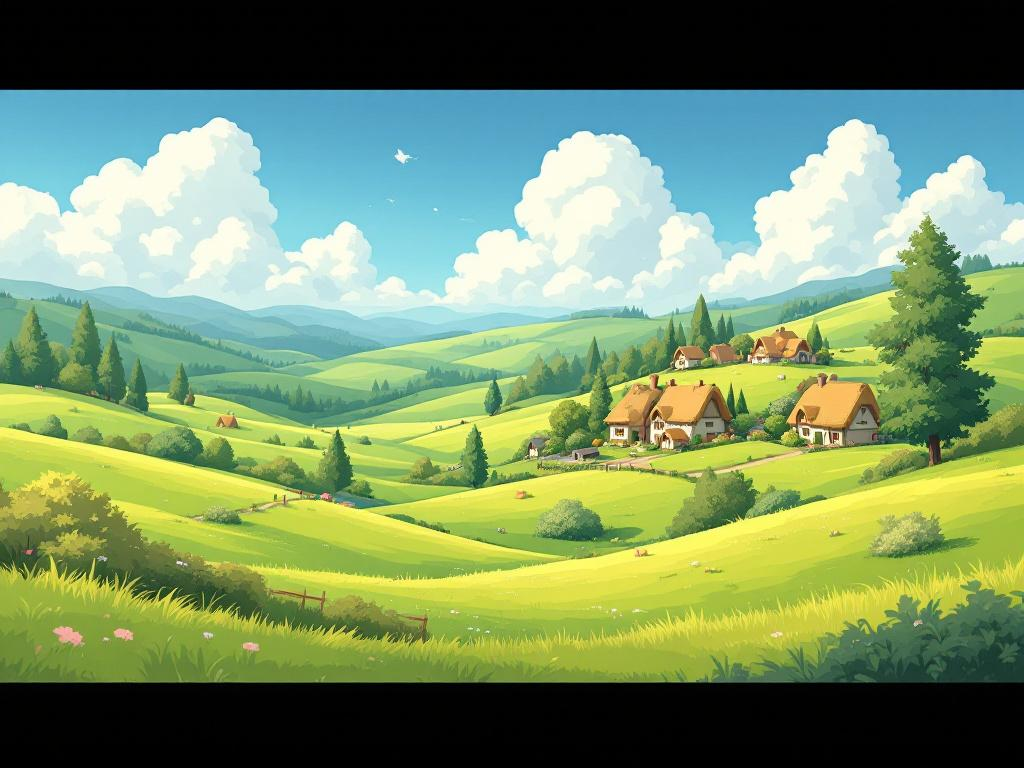
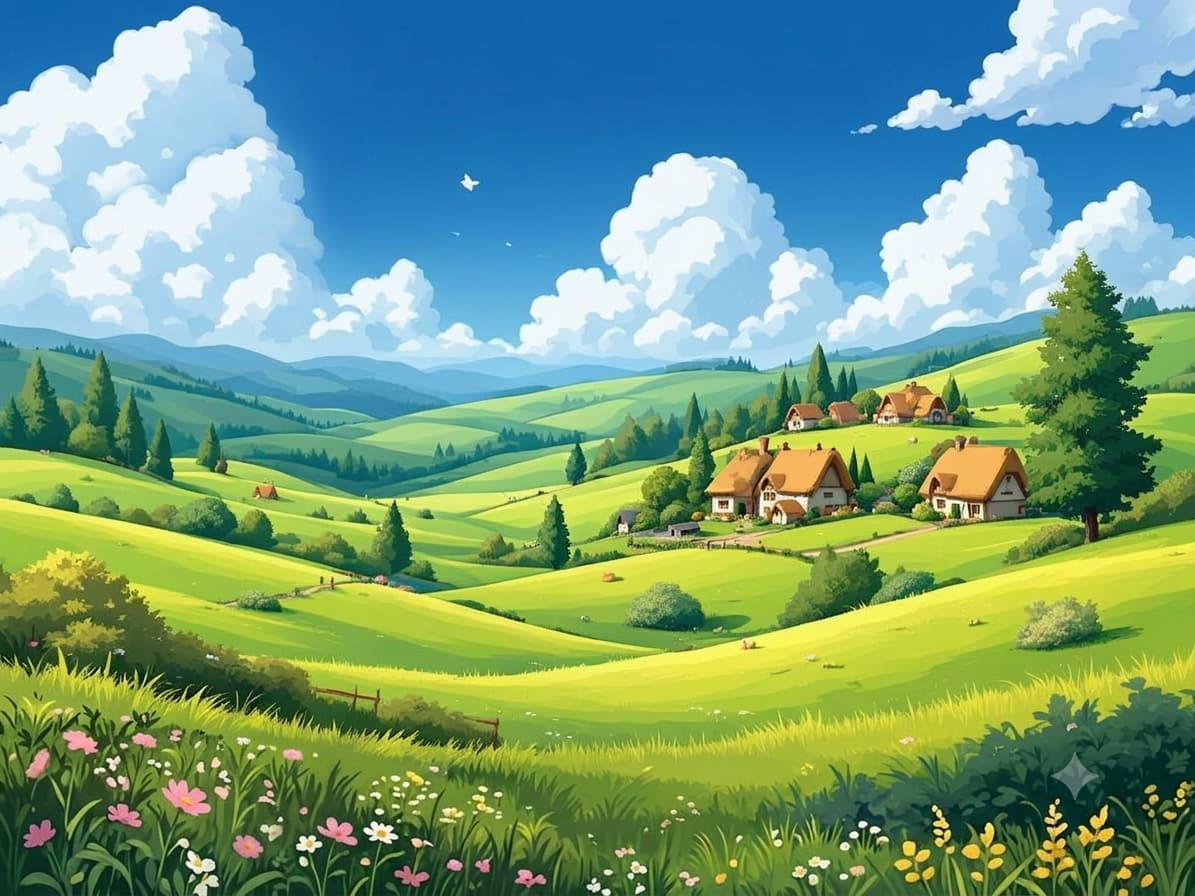
refactor: improve list accessibility, update aria-labels, and fix search layout

diff --git a/scripts/template.js b/scripts/template.js
@@ -1,19 +1,22 @@
 function miniCardType(pokemonCard, pokemonTypeColor) {
-  return `<button class="card mb-3 poke-mini-card" style=" background-color: ${pokemonTypeColor}"  
-               
-              data-id="${pokemonCard.id}" aria-label="button ${pokemonCard.name}" alt="pokemon ${pokemonCard.name}" tabindex="0">        
-              <div class="card-header bg-transparent dpf-sb-center w-100">
-                  <h5 class="fw-bold m-0 capitalize">${pokemonCard.name}</h5>
-                  <p class="border rounded-pill px-2 py-1 fw-bold m-0">#${pokemonCard.id}</p>
-              </div>
-              <div class="card-body text-success dpf-flex-column-center w-100">                   
-                  <img src="${pokemonCard.sprites}" alt="${pokemonCard.name}" class="mini-card-img">                   
-                  <div class="card-body dpf-sb-center gap-2">
-                      <img src="./assets/icons/pokemon-type-icons-main/${pokemonCard.types[0].type.name}.svg" alt="${pokemonCard.types[0].type.name}" class="type-logo border rounded-pill">
-                      ${filterTypes(pokemonCard)}   
-                  </div>
-              </div>
-            </button>`;
+  return `
+          <li>
+            <button class="card mb-3 poke-mini-card" style="background-color: ${pokemonTypeColor}"       
+                    data-id="${pokemonCard.id}" aria-label="${pokemonCard.name}, number ${pokemonCard.id}">        
+                <div class="card-header bg-transparent dpf-sb-center w-100">
+                    <h5 class="fw-bold m-0 capitalize">${pokemonCard.name}</h5>
+                    <p class="border rounded-pill px-2 py-1 fw-bold m-0">#${pokemonCard.id}</p>
+                </div>
+                <div class="card-body text-success dpf-flex-column-center w-100">                   
+                    <img src="${pokemonCard.sprites}" alt="${pokemonCard.name}" class="mini-card-img">                   
+                    <div class="card-body dpf-sb-center gap-2">
+                        <img src="./assets/icons/pokemon-type-icons-main/${pokemonCard.types[0].type.name}.svg" alt="${pokemonCard.types[0].type.name}" class="type-logo border rounded-pill">
+                        ${filterTypes(pokemonCard)}   
+                    </div>
+                </div>
+            </button>
+          </li>
+        `;
 }
 
 function templateModalCard(

diff --git a/index.html b/index.html
@@ -42,10 +42,10 @@
       </div>
       <nav class="navbar bg-body-tertiary w-100 h-auto">
         <div class="container">
-          <a class="navbar-brand dpf-fs-center" href="#">
+          <div class="navbar-brand dpf-fs-center">
             <img src="./assets/img/header-logo.jfif" alt="" class="nav-logo" />
             <h3 class="m-0">Pokedex</h3>
-          </a>
+          </div>
           <form class="d-flex flex-column" role="search">
             <div class="d-flex">
               <input
@@ -73,10 +73,11 @@
         </div>
       </nav>
       <h1 class="p-1">Pokedex</h1>
-      <main
-        class="container d-flex flex-wrap gap-3 p-3 overflow-y-auto"
-        id="mini_card"
-      ></main>
+      <main class="container dpf-center flex-wrap  overflow-y-auto">
+        <ul class="list-unstyled dpf-center flex-wrap gap-3 p-3 w-100" id="mini_card" aria-label="Pokemon-list">
+
+        </ul>
+      </main>
       <dialog id="exampleModal" class="dialogCard">
         <div id="modal_card" class=""></div>
       </dialog>
@@ -85,16 +86,14 @@
           <button
             class="btn btn-success"
             onclick="changePokemonLimit('more')"
-            aria-label="more button"
-            tabindex="0"
+            aria-label="Load 10 more Pokemon"
           >
             +10
           </button>
           <button
             class="btn btn-success"
             onclick="changePokemonLimit('base')"
-            aria-label="reset button"
-            tabindex="0"
+            aria-label="Reset to base Pokemon stack"
           >
             Base Stack
           </button>
@@ -102,8 +101,7 @@
             class="btn btn-success d-none"
             onclick="changePokemonLimit('fewer')"
             id="fewer_button"
-            aria-label="fewer button"
-            tabindex="0"
+            aria-label="Show 10 fewer Pokemon"
           >
             -10
           </button>

diff --git a/script.js b/script.js
@@ -182,7 +182,7 @@ function updateFewerButton() {
 function resetSearch(miniCards, errorMessage) {
   errorMessage.style.display = 'none';
   for (let i = 0; i < miniCards.length; i++) {
-    miniCards[i].style.display = 'block';
+    miniCards[i].parentElement.style.display = 'block';
   }
 }
 
@@ -192,7 +192,7 @@ function applySearchFilter(miniCards, searchTerm) {
     let card = miniCards[i];
     let name = card.querySelector('h5').textContent.toLowerCase();
     let matches = name.includes(searchTerm.toLowerCase());
-    card.style.display = matches ? 'block' : 'none';
+    card.parentElement.style.display = matches ? '' : 'none';
     if (matches) count++;
   }
   return count;
@@ -212,10 +212,13 @@ function filterMiniCards() {
   let searchTerm = document.getElementById('search_Input').value.trim();
   let errorMessage = document.getElementById('error_message');
   let miniCards = document.querySelectorAll('.poke-mini-card');
+  let footer = document.querySelector('footer');
   if (searchTerm.length <= 2) {
     resetSearch(miniCards, errorMessage);
+    footer.classList.remove('d-none');
     return;
   }
   let targetNumber = applySearchFilter(miniCards, searchTerm);
   handleSearchError(errorMessage, targetNumber);
+  footer.classList.add('d-none');
 }

diff --git a/scripts/assets.js b/scripts/assets.js
@@ -3,6 +3,7 @@ const colorBackgroundImage = {
   normal: {
     color: "#A8A878",
     backgroundImage: "background-img-normal.png",
+    textColor: "#000000",
   },
   fire: {
     color: "#F08030",
@@ -73,3 +74,5 @@ const colorBackgroundImage = {
     backgroundImage: "background-img-fairy.png",
   },
 };
+
+